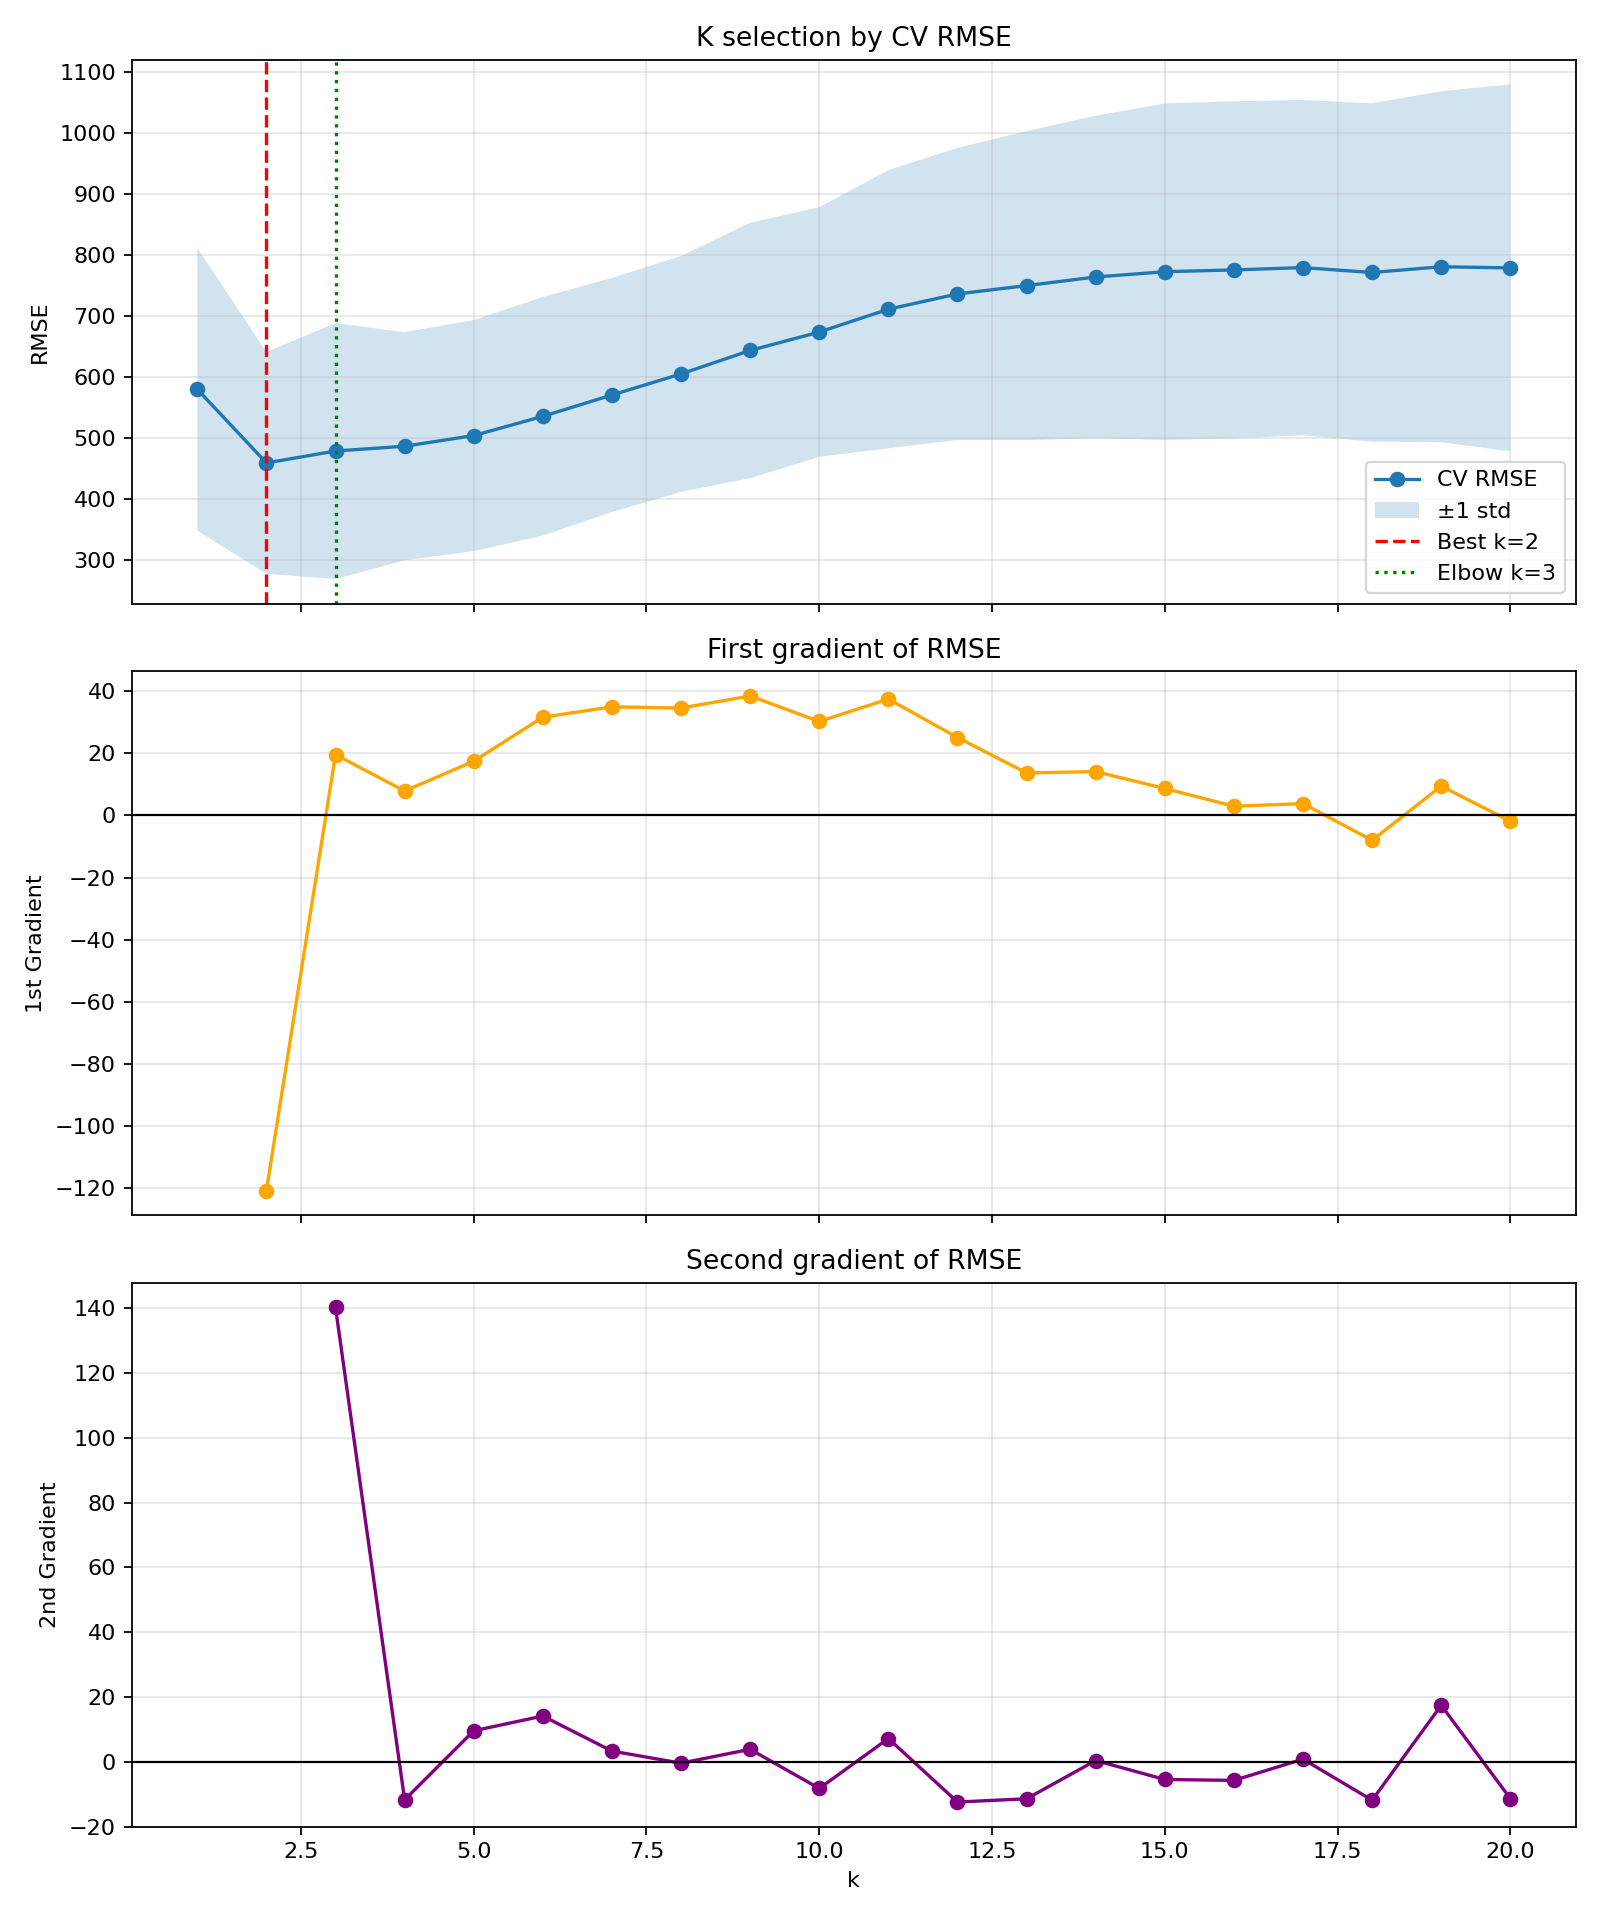
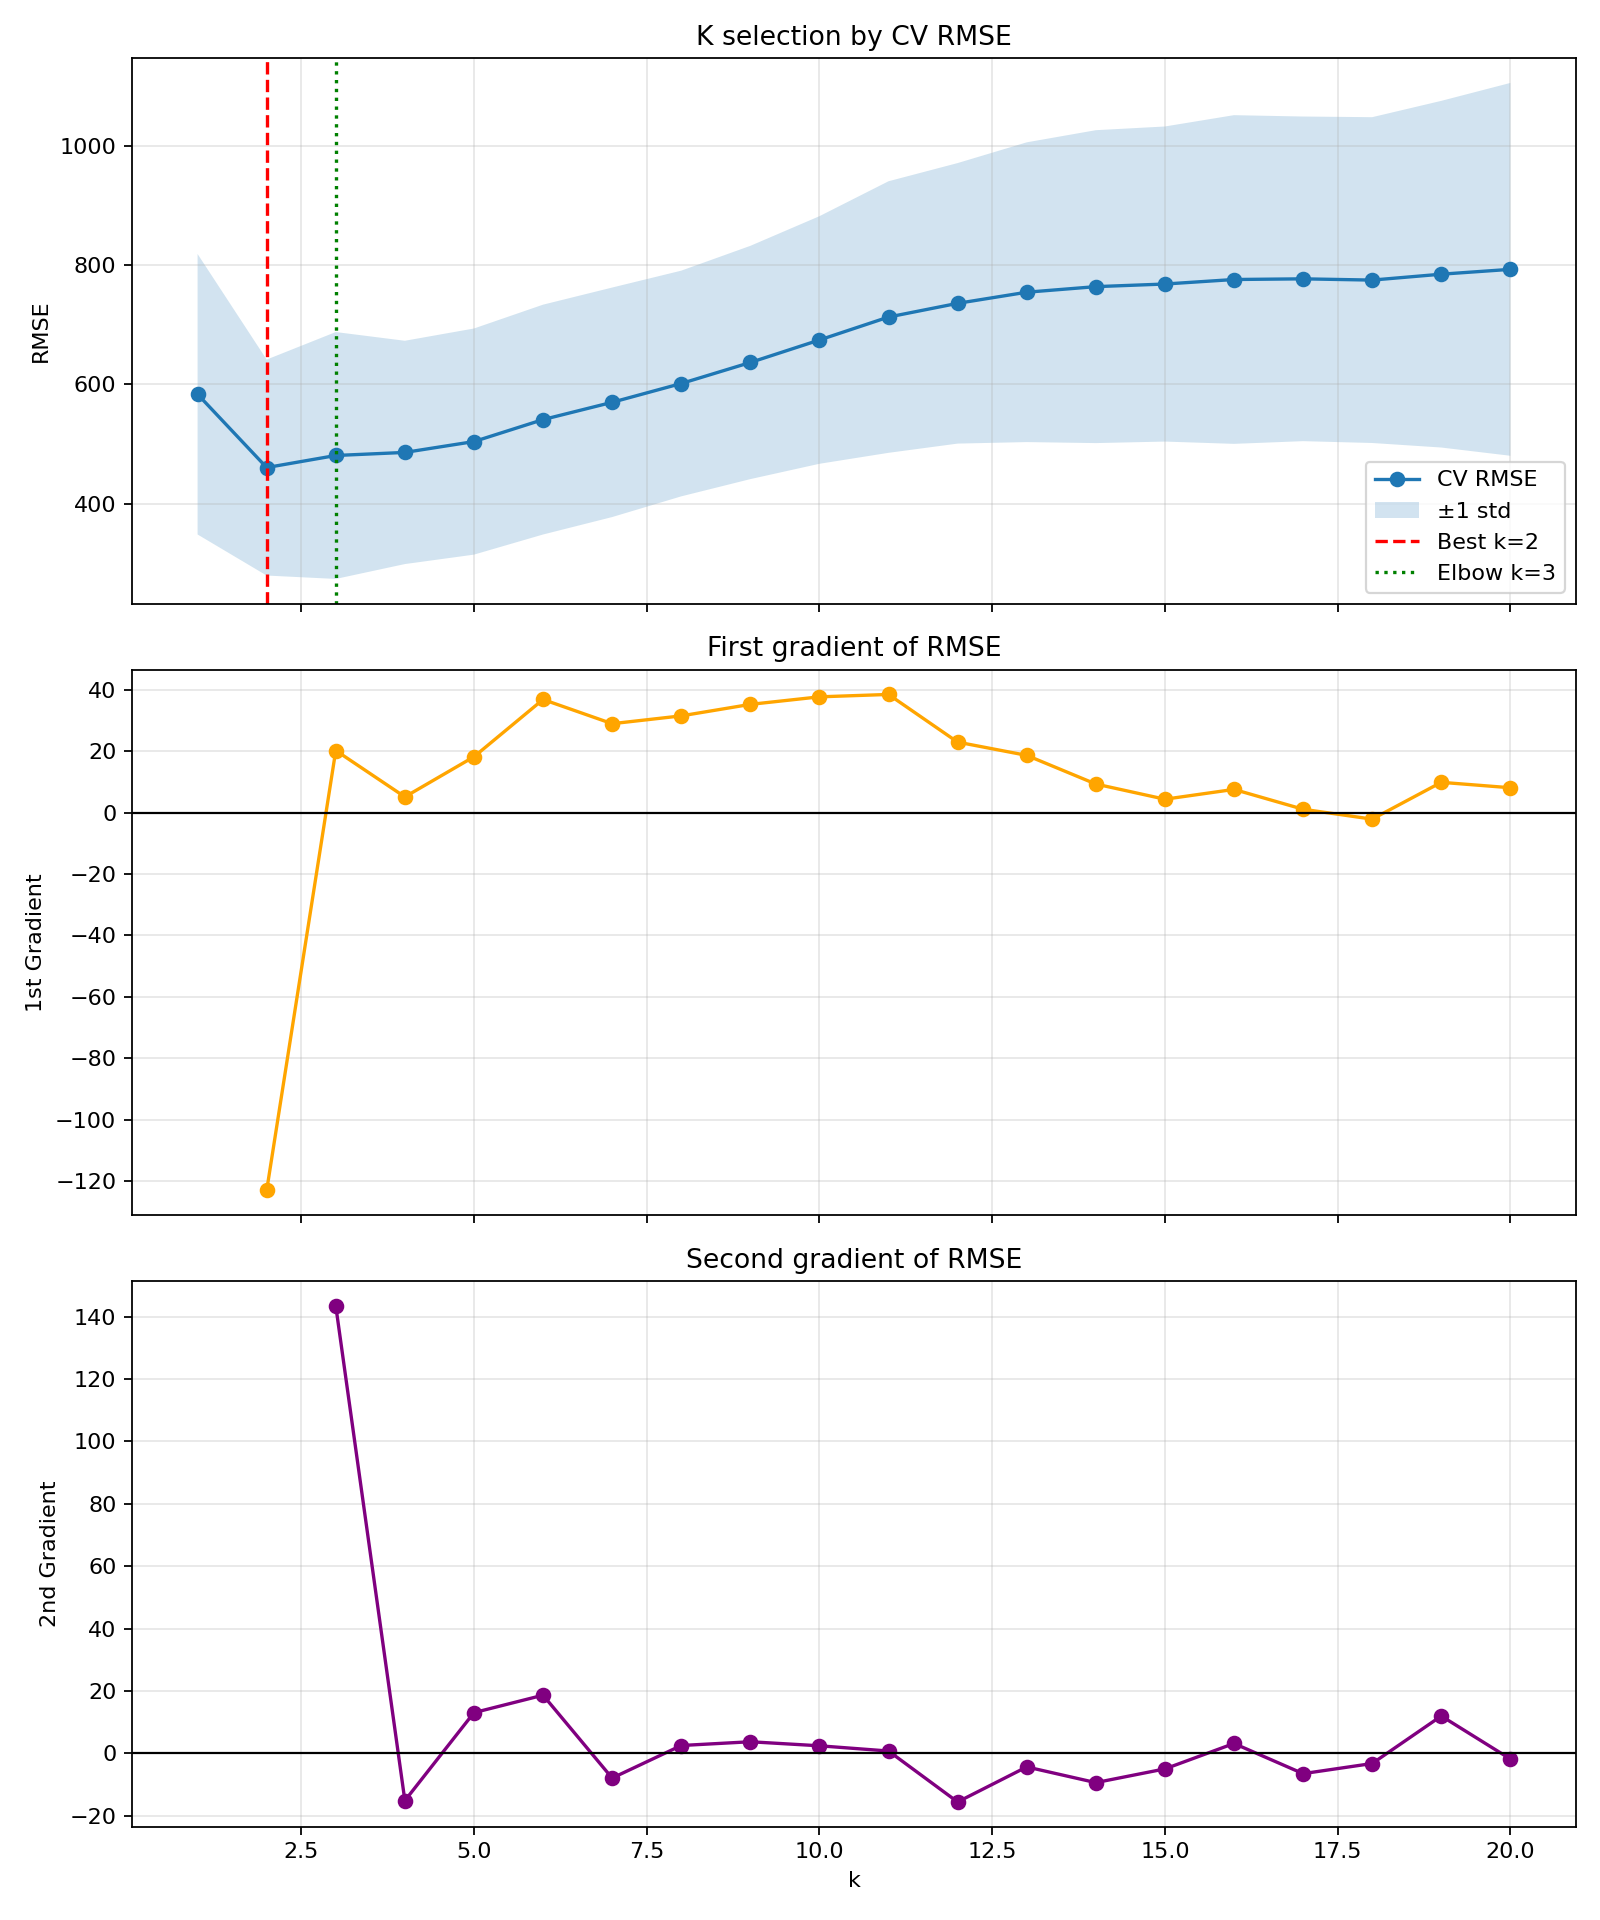
修正路徑問題

diff --git a/臺北市房屋構造標準單價表/knn_classify_new_data.py b/臺北市房屋構造標準單價表/knn_classify_new_data.py
@@ -92,7 +92,16 @@ def main() -> None:
     if args.k_min < 1 or args.k_max < args.k_min:
         raise ValueError("Invalid k range. Ensure k-min >= 1 and k-max >= k-min")
 
+    script_dir = Path(__file__).resolve().parent
+
     csv_path = Path(args.csv)
+    if not csv_path.is_absolute():
+        csv_path = script_dir / csv_path
+
+    report_csv = Path(args.report_csv)
+    if not report_csv.is_absolute():
+        report_csv = script_dir / report_csv
+
     raw_df = load_csv_with_fallback(csv_path)
     long_df = to_long_format(raw_df)
 
@@ -103,7 +112,7 @@ def main() -> None:
         raise ValueError("資料筆數不足，無法進行交叉驗證")
 
     best_k, k_report = select_best_k_for_classification(x, y, args.k_min, args.k_max, args.cv)
-    k_report.to_csv(args.report_csv, index=False, encoding="utf-8-sig")
+    k_report.to_csv(report_csv, index=False, encoding="utf-8-sig")
 
     try:
         x_train, x_test, y_train, y_test = train_test_split(
@@ -147,7 +156,7 @@ def main() -> None:
     print(f"Training rows: {len(x_train)}, Test rows: {len(x_test)}")
     print(f"Best k by CV accuracy: {best_k}")
     print(f"Holdout test accuracy: {test_acc:.4f}")
-    print(f"Saved k-search report: {args.report_csv}")
+    print(f"Saved k-search report: {report_csv}")
 
     print("\n=== New Input Prediction ===")
     print(f"Input: 總層數={floor}, 單價={price}")

diff --git a/臺北市房屋構造標準單價表/analyze_knn_k_gradient.py b/臺北市房屋構造標準單價表/analyze_knn_k_gradient.py
@@ -209,9 +209,19 @@ def main() -> None:
     if args.k_min < 1 or args.k_max < args.k_min:
         raise ValueError("Invalid k range. Ensure k-min >= 1 and k-max >= k-min")
 
+    script_dir = Path(__file__).resolve().parent
+
     csv_path = Path(args.csv)
+    if not csv_path.is_absolute():
+        csv_path = script_dir / csv_path
+
     out_csv = Path(args.out_csv)
+    if not out_csv.is_absolute():
+        out_csv = script_dir / out_csv
+
     out_png = Path(args.out_png)
+    if not out_png.is_absolute():
+        out_png = script_dir / out_png
 
     raw_df = load_csv_with_fallback(csv_path)
     long_df = to_long_format(raw_df)